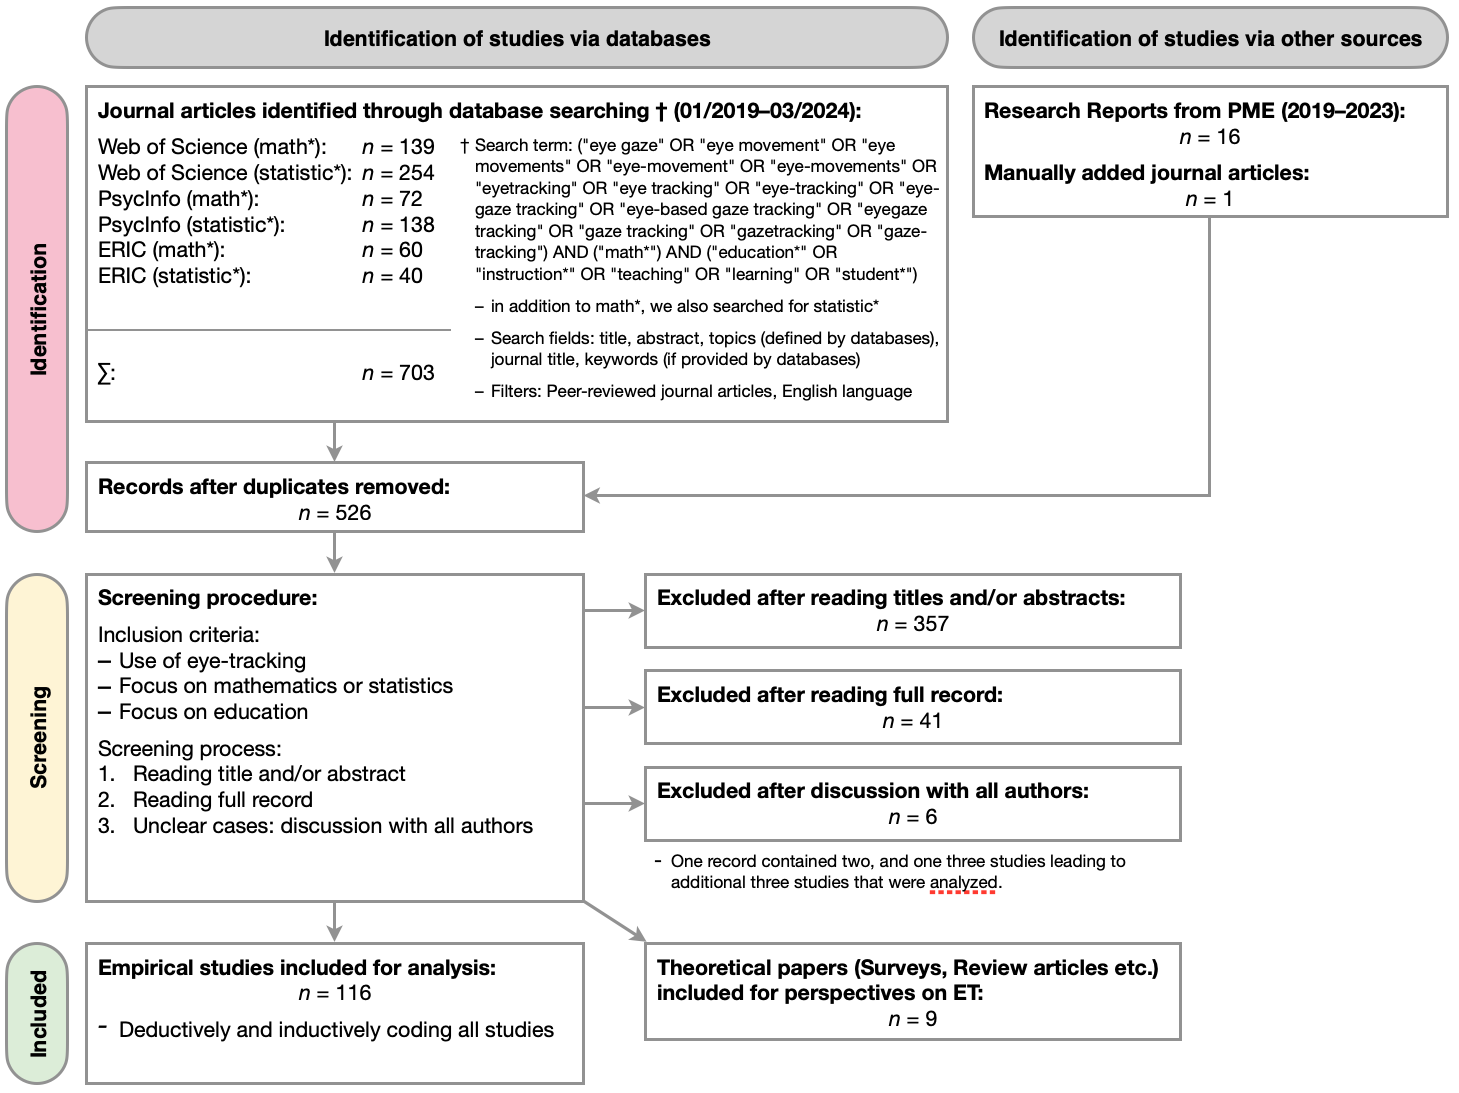
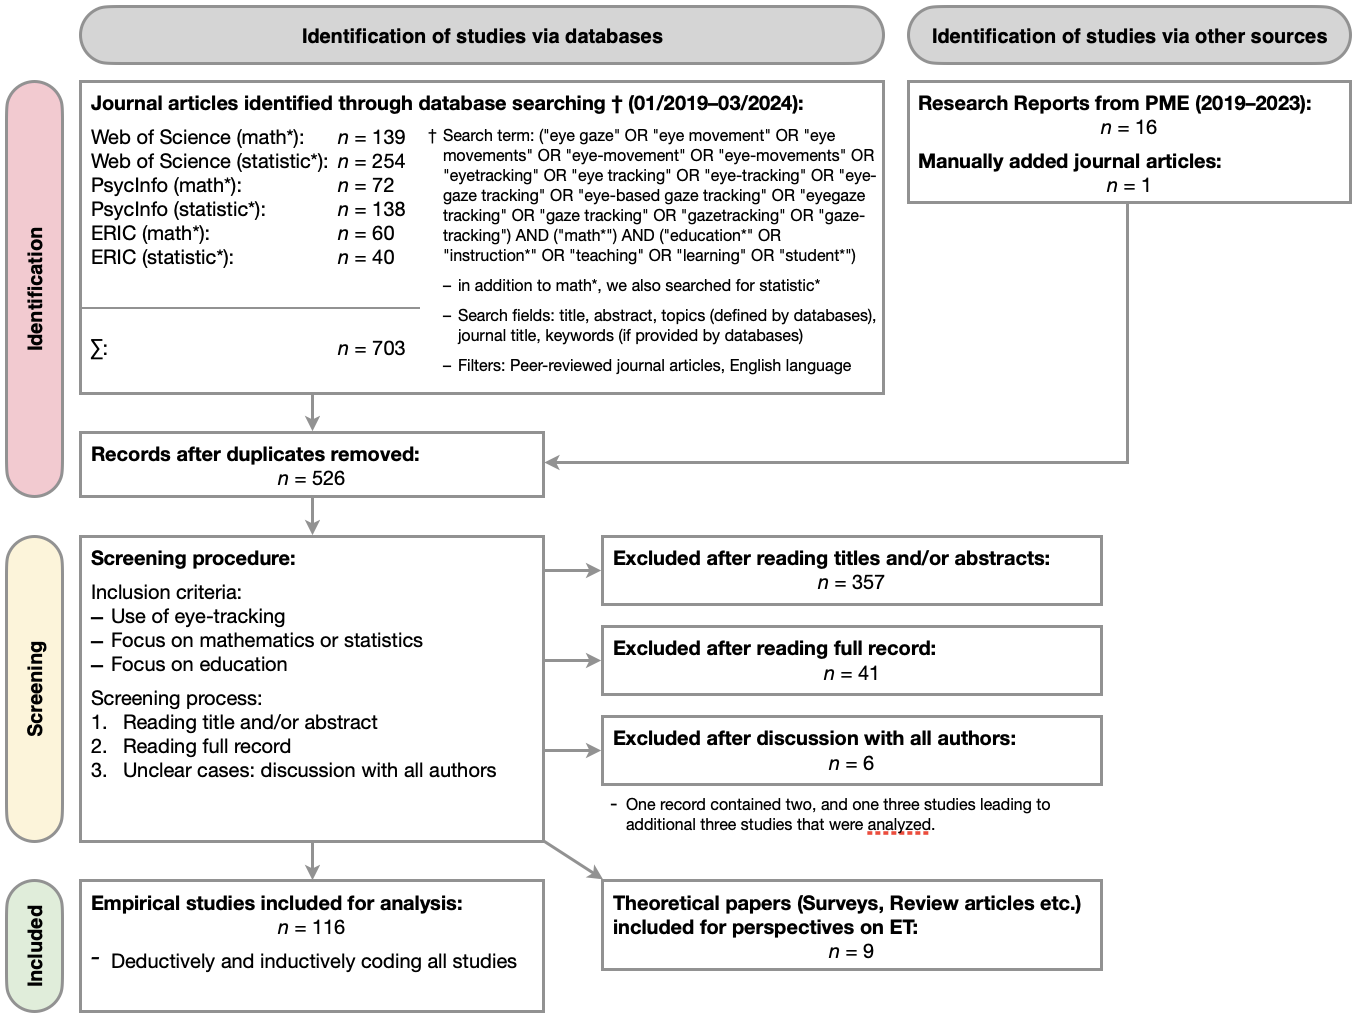
a

diff --git a/index.html b/index.html
@@ -242,7 +242,7 @@
                 <a href="https://doi.org/10.1007/s11858-025-01699-8" target="_blank">
                 <picture>
                   <source media="(prefers-color-scheme: light)" srcset="/assets/img/ZDM-Review.png 300w" width="300">
-                  <source media="(prefers-color-scheme: dark)" srcset="/assets/img/ZDM-Review.png 300w" width="300">
+                  <source media="(prefers-color-scheme: dark)" srcset="/assets/img/ZDM-Review_dark.png 300w" width="300">
                   <img alt="alt text" src="https://some.cdn/img/light.jpg" loading="lazy" />
                 </picture>
                 </a>
